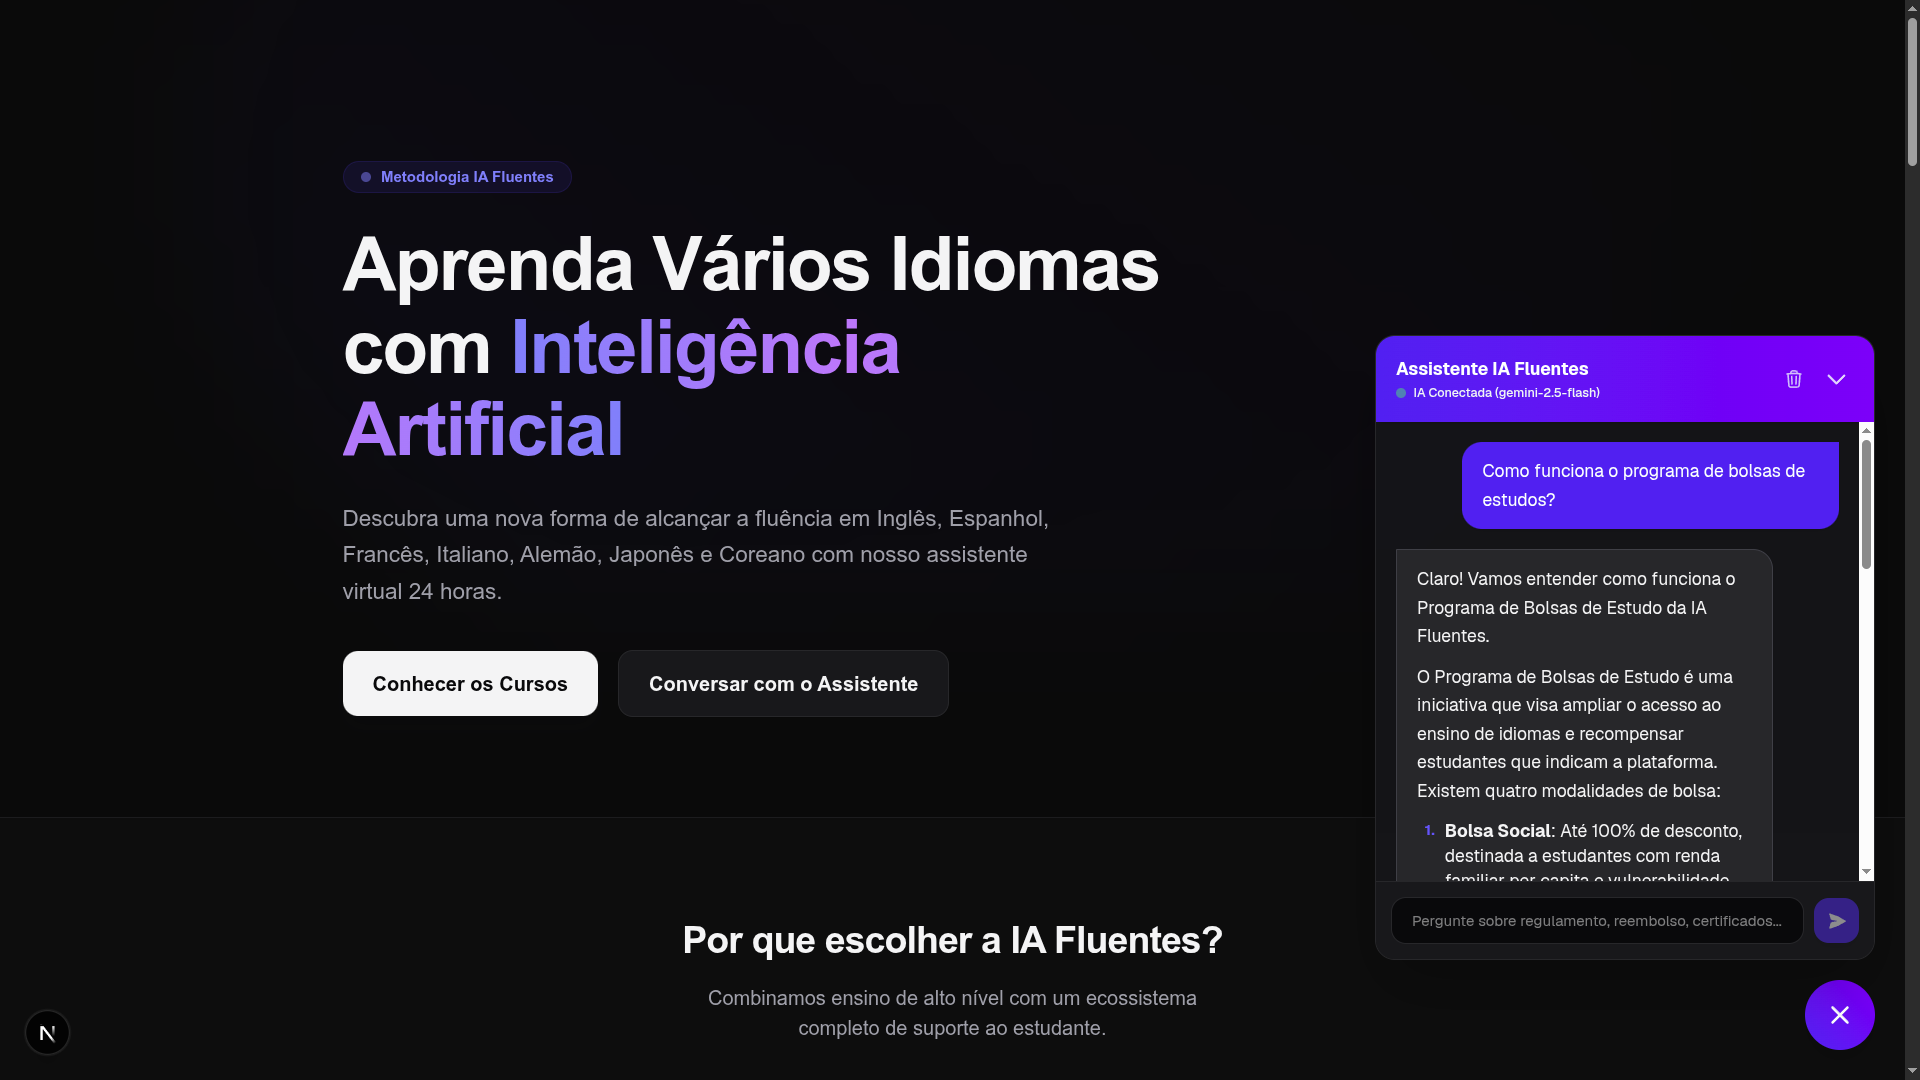
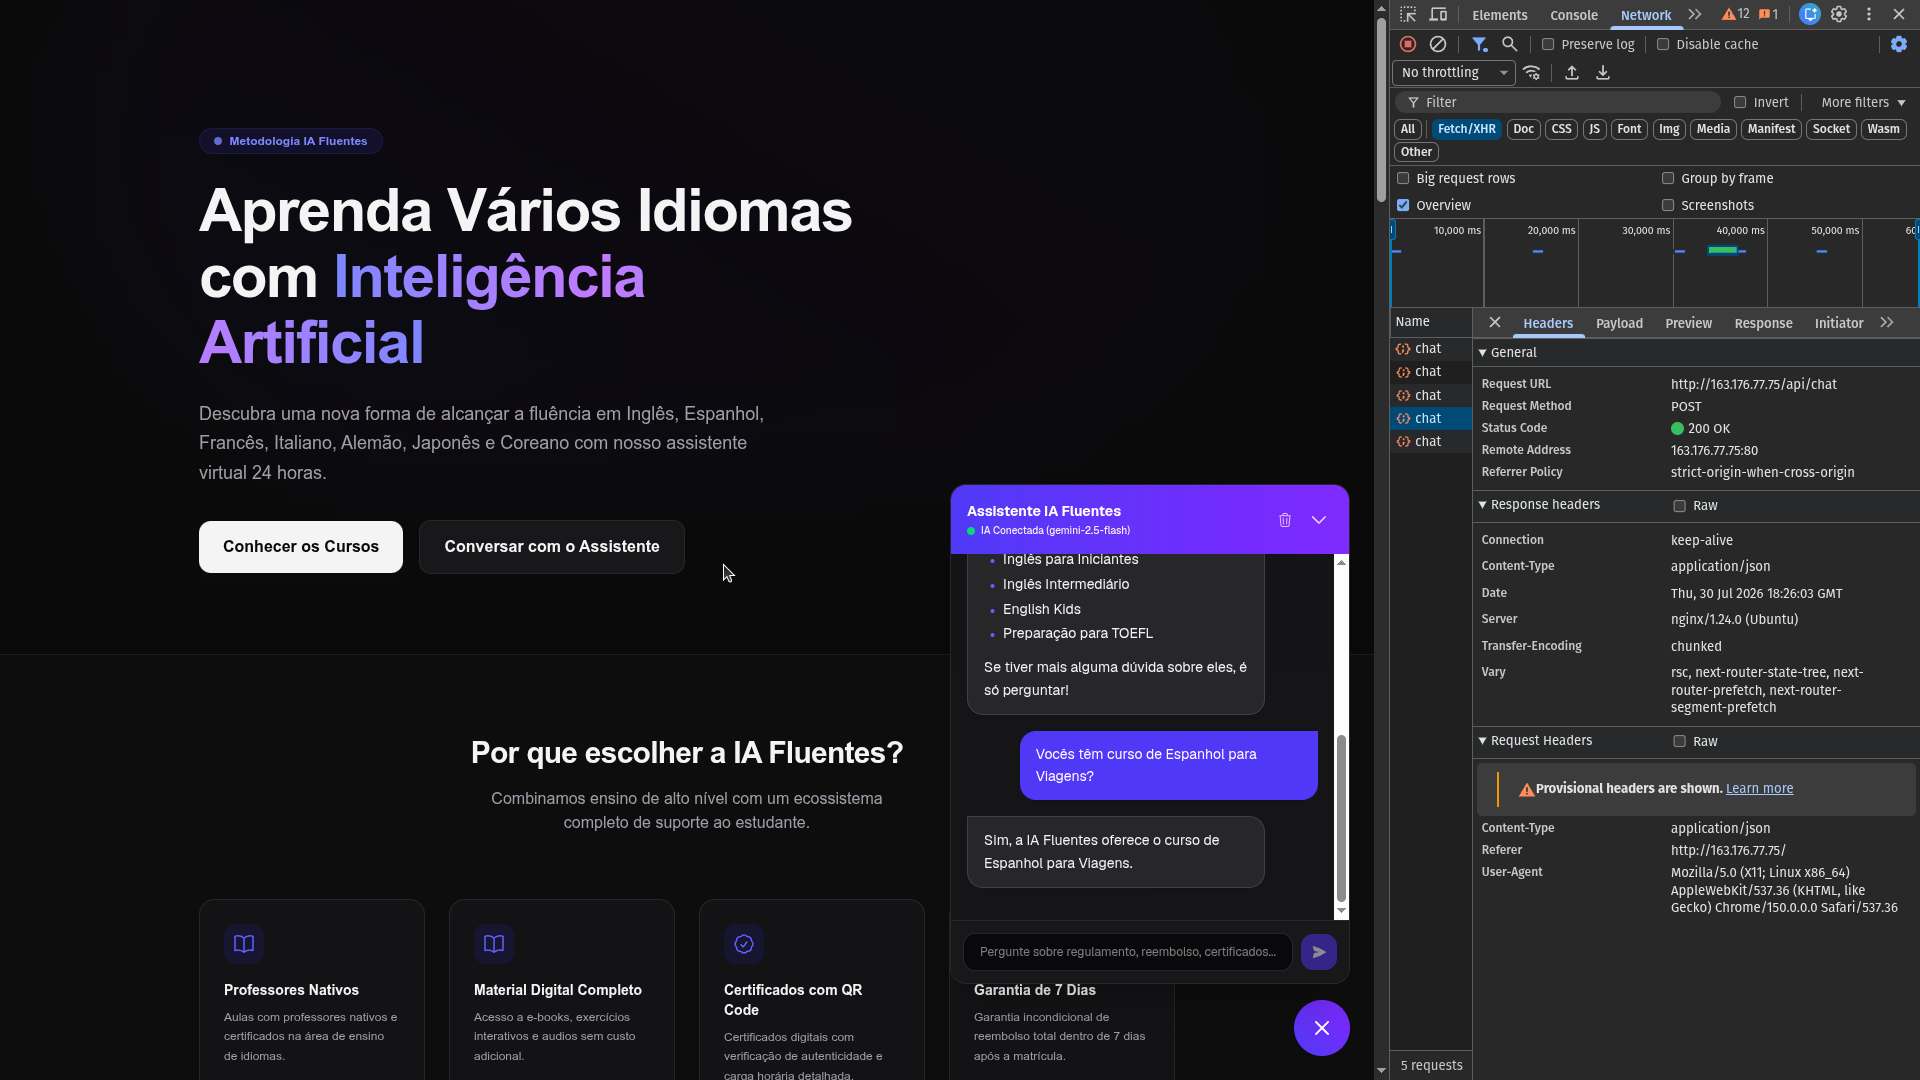
docs: update OCI deployment screenshot image reference

diff --git a/README.md b/README.md
@@ -20,9 +20,7 @@ O ambiente foi configurado em uma instância Linux (Ubuntu), utilizando **Nginx*
 
 📸 **Captura de Tela (Aplicação em Execução):**
 
-> **Nota para o repositório:** A imagem abaixo comprova o acesso externo via IP público e a comunicação bem-sucedida (Status 200 OK) com a rota da API do Gemini.
-
-![Evidência do Deploy na OCI demonstrando o frontend e o retorno da API no painel Network](image_ae3fdb.jpg)
+![Evidência do Deploy na OCI demonstrando o frontend e o retorno da API no painel Network](nextjs-teste-fluentes/docs/images/img-readme.png)
 
 ---
 
